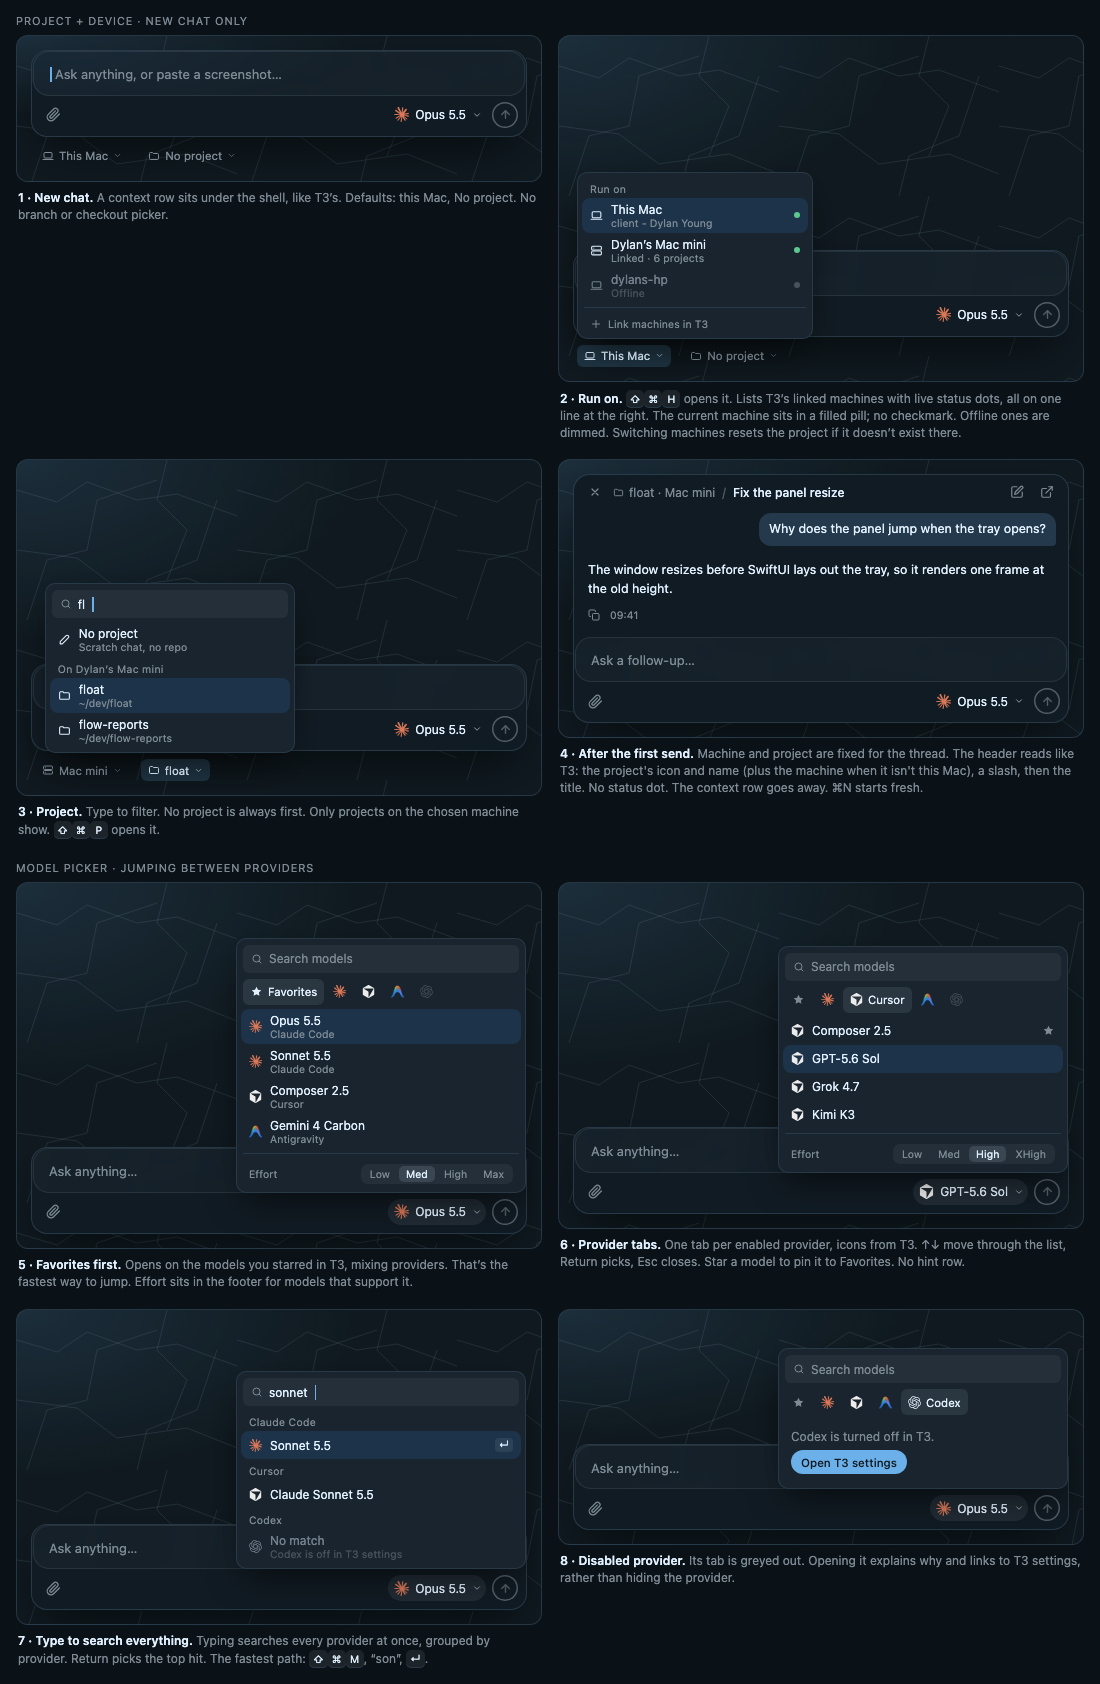
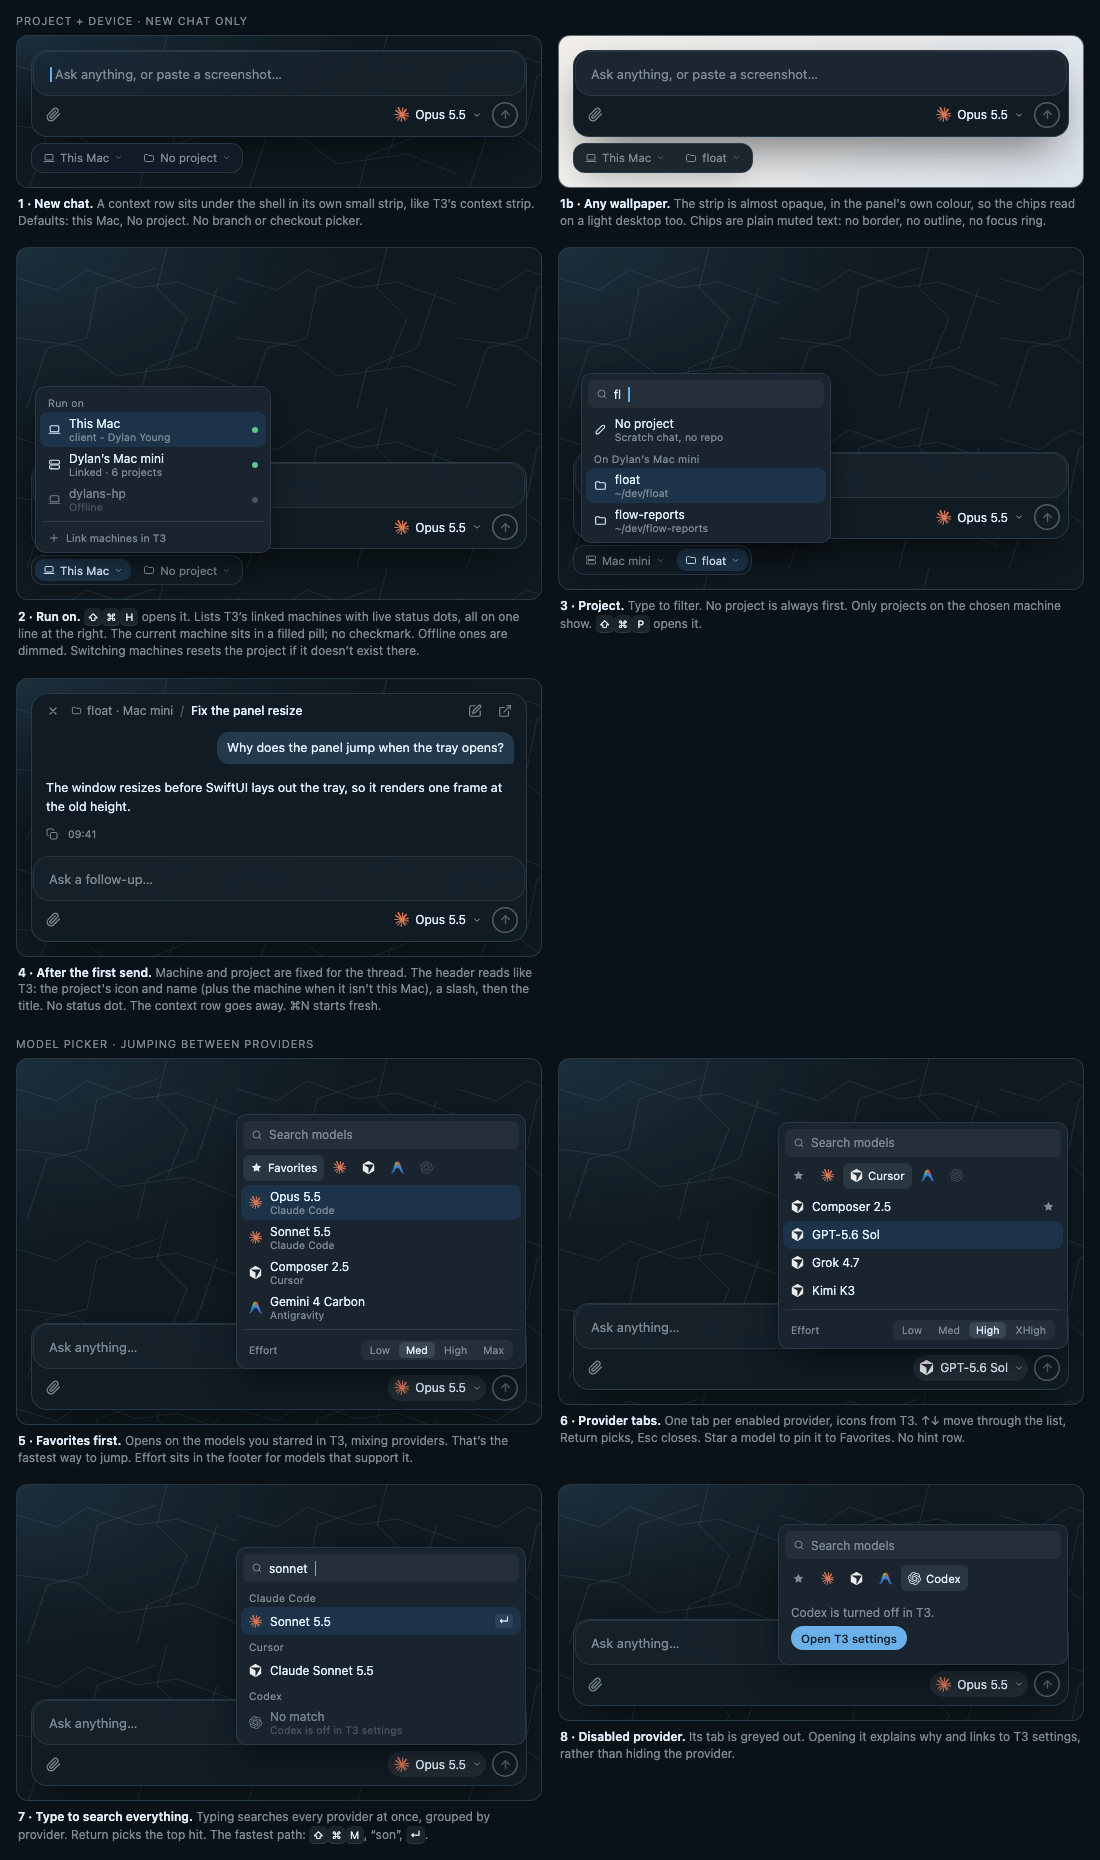
docs(design): give the context row its own strip so it reads on any wallpaper

diff --git a/design/float-pickers.html b/design/float-pickers.html
@@ -145,10 +145,18 @@ code{font-family:var(--font-mono);font-size:11.5px;background:var(--code-backgro
 
 .grid{display:grid;grid-template-columns:1fr 1fr;gap:18px 16px;align-items:start}
 @media (max-width:600px){.grid{grid-template-columns:1fr}.desk .shell{left:16px;width:auto}.app{width:calc(100% - 36px)}}
-.ctx{display:flex;align-items:center;gap:12px;padding:8px 4px 0;font-size:11.5px;color:var(--muted-foreground)}
-.cx{display:inline-flex;align-items:center;gap:5px;height:22px;padding:0 7px;border-radius:6px;position:relative}
+/* Context row: T3's context strip, made almost opaque so it reads on any wallpaper. Hugs its chips, 12px radius, the panel's hairline and shadow. */
+.ctx{display:inline-flex;align-items:center;gap:4px;margin-top:6px;padding:3px;font-size:11.5px;color:var(--muted-foreground);
+  background:color-mix(in oklab, var(--card) 94%, transparent);backdrop-filter:blur(8px) saturate(1.3);-webkit-backdrop-filter:blur(8px) saturate(1.3);
+  border:1px solid var(--line);border-radius:12px;box-shadow:0 10px 26px -12px rgba(0,0,0,.55)}
+/* Chips: plain muted text and icon, no border, no outline, no focus ring. Hover: text colour at 6%. Open: the selection pill. */
+.cx{display:inline-flex;align-items:center;gap:5px;height:22px;padding:0 8px;border-radius:9px;position:relative}
+.cx.hv{background:color-mix(in oklab, var(--foreground) 6%, transparent)}
 .cx svg{width:12px;height:12px}
-.cx.on{background:color-mix(in oklab, var(--primary) 18%, transparent);color:var(--foreground)}
+.cx.on{background:#1c3349;color:var(--foreground)}
+/* The real panel is opaque: show it that way on the light wallpaper. */
+.light .shell{background:var(--card);backdrop-filter:none;-webkit-backdrop-filter:none}
+.light .input{background:color-mix(in oklab, var(--foreground) 6%, var(--card))}
 .cx .cv{width:9px;height:9px;opacity:.7}
 .sep{width:1px;height:12px;background:var(--line)}
 .pop{position:absolute;z-index:5;bottom:calc(100% + 6px);left:0;min-width:236px;border-radius:10px;background:var(--popover);border:1px solid var(--line);
@@ -276,7 +284,8 @@ const projPop=`<div class="pop" style="left:-96px;min-width:250px">
 
 document.getElementById('g1').innerHTML=[
   cell(shell({input:`<span class="caret"></span>${ph(' Ask anything, or paste a screenshot…')}`})+ctx(),
-    `<b>1 · New chat.</b> A context row sits under the shell, like T3’s. Defaults: this Mac, No project. No branch or checkout picker.`),
+    `<b>1 · New chat.</b> A context row sits under the shell in its own small strip, like T3’s context strip. Defaults: this Mac, No project. No branch or checkout picker.`),
+  `<div><div class="bg light" style="padding-top:14px;background:linear-gradient(135deg,#f3f0ea,#dfe6ee)"><div class="stack">${shell({input:ph('Ask anything, or paste a screenshot…')})+ctx({proj:'float'})}</div></div><p class="cap"><b>1b · Any wallpaper.</b> The strip is almost opaque, in the panel's own colour, so the chips read on a light desktop too. Chips are plain muted text: no border, no outline, no focus ring.</p></div>`,
   cell(shell({input:ph('Ask anything…')})+ctx({devOpen:true,devPop}),
     `<b>2 · Run on.</b> <span class="kbd">⇧</span><span class="kbd">⌘</span><span class="kbd">H</span> opens it. Lists T3’s linked machines with live status dots, all on one line at the right. The current machine sits in a filled pill; no checkmark. Offline ones are dimmed. Switching machines resets the project if it doesn’t exist there.`,200),
   cell(shell({input:ph('Ask anything…')})+ctx({dev:'Mac mini',devIcon:'p-server',proj:'float',projOpen:true,projPop}),

diff --git a/design/README.md b/design/README.md
@@ -39,6 +39,7 @@ The colours come from Dylan's nordbones T3 theme. So do the pixel thinking loade
 - **Panel size:** once a chat has a tray, the panel opens straight to its full size, even for the first message, and never grows or shrinks as messages stream in. You set that size yourself: drag the top edge to change the height, or either top corner to change the height and the width together. The bottom edge and the input stay anchored, so dragging moves only the top (and the dragged side). Grab zones: 4pt along the top edge with the up-down cursor, 10×10pt at the top corners with the diagonal cursor. Limits: height 240pt to 85% of the screen's visible height; width 420pt to 900pt. Float remembers the size. Double-clicking the top edge resets it to the default (560pt tall, today's width). The compact state, with no tray, keeps its width and never resizes.
 - **Dragging:** you can drag the window by the header, the footer's empty space, and a thin strip along the top edge of the input (6pt, arrow cursor), which matters in the compact state where there's no header.
 - **Pickers:** the model, project and Run on pickers keep one size and one anchor while open, whatever tab or query is showing, so they never jump. The model picker is a fixed 300×360pt and its bottom-right corner stays pinned above the model button; the list scrolls inside it. The current item sits in a filled pill in nordbones `secondary` (`#1C3349`, radius 8), as T3 marks a selected chip, with no checkmark. Hover and the keyboard highlight use the text colour at 6%. Trailing status dots line up in one column. With the search field focused, ↑↓ move the highlight through the list, Return picks the highlighted item, and Esc closes the picker (Esc closes every Float menu and picker before it hides Float). No hint rows and no ⌘1–9 tab shortcuts; click a tab to switch. In the model picker, clicking an effort segment sets that model's effort. The effort row always starts with its "Effort" label, and its segments fit inside the picker without clipping, even for long values like "Ultrathink". The model picker has no "Use T3 default" row: you always pick a specific model.
+- **Context row:** for new chats, the Run on and Project chips sit in a small strip under the panel, like T3's context strip. It hugs its chips (3pt padding, 4pt between chips), 6pt below the panel, with a 12pt radius. Its fill is the panel's colour at about 94% with a light blur, plus the panel's hairline border and a soft shadow, so it reads on any wallpaper, light or dark. Chips are a 12pt icon, muted 11.5pt regular text and a small chevron, 22pt tall with a 9pt radius. No border, no outline, no text effects, no focus ring. Hover is the text colour at 6%. An open chip uses the selection pill (`#1C3349`) with text in the text colour. See `design/pickers.png` states 1 and 1b.
 - **No focus rings:** Float's own buttons, rows and chips never show macOS's blue focus ring. Keyboard focus shows the same way as hover: the text colour at 6%. The only visible focus is the caret in a text field.
 - **Scroll bars:** overlay knobs only, never a track, everywhere (conversation, input, pickers, code blocks).
 - **Keyboard:** ⌥Space toggles Float, Esc hides it (or closes an open picker first), Return sends, ⇧Return adds a new line, the standard editing keys work in the input (⌘A, ⌘C, ⌘X, ⌘V, ⌘Z, ⇧⌘Z), ⌘V also pastes images, ⌘N starts a new chat, ⇧⌘M opens the model picker, ⇧⌘P the project picker, ⇧⌘H the Run on picker, ⌘. stops a run.
